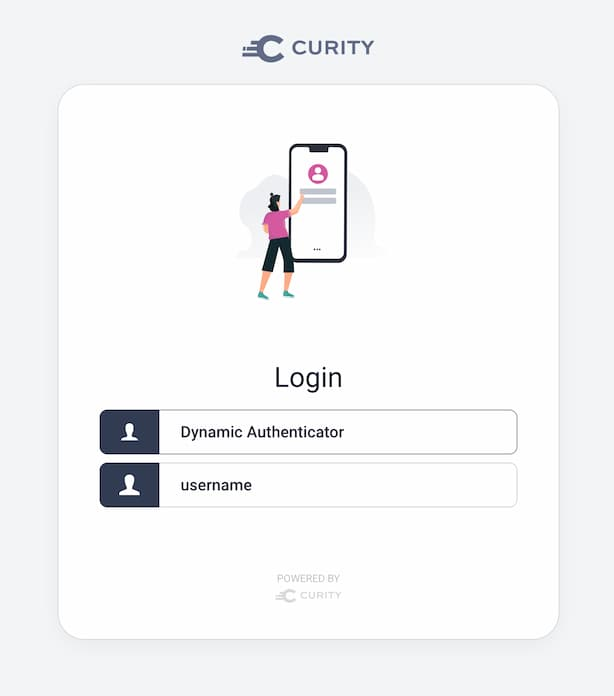
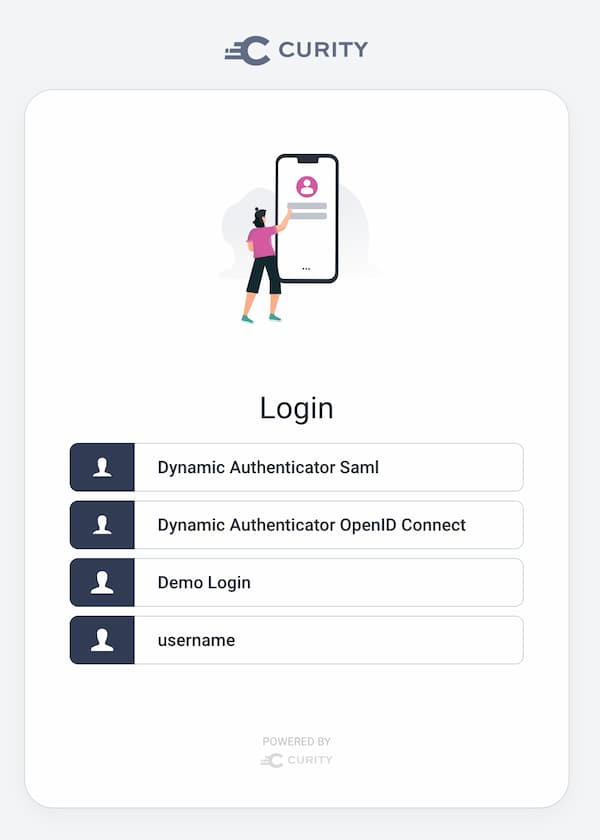
Fix documentation

diff --git a/README.md b/README.md
@@ -24,13 +24,11 @@ You will also need a license for the Curity Identity Server. If you don't have o
 
 Follow these steps in order to run the demo:
 
-- Copy `hooks/pre-commit` to `./git/hooks`. (This is an optional step, and you should do it if you plan to commit anything to this repo.
-  The hook will make sure that you don't accidentally commit the license.)
 - Copy the JSON license file to `/idsvr`.
 - Add the following domains to `/etc/hosts`:
 
 ```
-127.0.0.1 provider1.example.com provider2.example.com
+127.0.0.1 login.example.com provider1.example.com provider2.example.com provider3.example.com provider4.example.com
 ```
 
 - Run the `./deploy.sh` script. It will create the required certificates and containers.
@@ -38,24 +36,32 @@ Follow these steps in order to run the demo:
 ## Log In Using the Dynamic Authenticator
 
 You can log in to the main instance of the Curity Identity Server, by starting an OAuth flow for the client `dynamic-authenticator-demo`,
-e.g., navigate your browser to: `https://localhost:8443/oauth/v2/oauth-authorize?client_id=dynamic-authenticator-demo&response_type=code&scope=openid&redirect_uri=http://localhost`.
-(You can use [OAuth.tools](https://curity.io/resources/learn/test-using-oauth-tools/) to perform OAuth flows, but you will
-need to expose the main instance of the Curity Identity Server to the Internet. Here is a
-[tutorial](https://curity.io/resources/learn/expose-local-curity-ngrok/) that shows how to do it using a free tool called `ngrok`.)
+e.g., navigate your browser to:
 
-You will see an authentication method selection screen. Choose `Dynamic Authenticator`.
+```
+https://login.example.com:8443/oauth/v2/oauth-authorize?client_id=dynamic-authenticator-demo&response_type=code&scope=openid&redirect_uri=http://localhost
+```
+
+You will see an authentication method selection screen. Choose `Demo Login`.
 
 ![Authenticator selector](/docs/selector.jpg)
 
 The authenticator needs a way of determining which configuration to use for the authentication. It first collects a username,
-then calls the configuration API with the domain typed into the username field. Type `user1@provider1` or `user2@provider2` to be redirected
-to the corresponding provider.
+then calls the configuration API with the domain typed into the username field. Type `user1@provider1` or `user2@provider2` for federating to an OIDC provider,
+`user3@provider3` or `user4@provider4` for federating to an SAML IdP.
 
 ![Username authenticator](/docs/username.jpg)
 
 ![Provider 1 login screen](/docs/provider1.jpg)
 
-At provider1 you can log in with `user1/Password1`. At provider2 log in with `user2/Password1`.
+Use one of the following credentials to log in at the different providers:
+
+| Provider  | Username | Password    |
+|-----------|----------|-------------|
+| provider1 | `user1`  | `Password1` |
+| provider2 | `user2`  | `Password1` |
+| provider3 | `user3`  | `Password1` |
+| provider4 | `user4`  | `Password1` |
 
 After logging in with a provider you will see a Debug Attribute Action screen, where you can study the attributes collected from the respective provider.
 Note that even though `userX@providerX` was first used as the subject, the final subject is the one obtained from the provider.
@@ -74,7 +80,7 @@ A Curity Identity Server instance that serves as an external OIDC Provider.
 
 Endpoints:
 - OIDC metadata: https://provider1.example.com:8444/oauth/v2/oauth-anonymous/.well-known/oidc-configuration
-- admin UI: https://localhost:6750/admin
+- admin UI: https://provider1.example.com:6750/admin
 
 ### Provider 2
 
@@ -82,15 +88,32 @@ A Curity Identity Server instance that serves as an external OIDC Provider.
 
 Endpoints:
 - OIDC metadata: https://provider2.example.com:8445/oauth/v2/oauth-anonymous/.well-known/oidc-configuration
-- admin UI: https://localhost:6751/admin
+- admin UI: https://provider2.example.com:6751/admin
+
+### Provider 3
+
+A Curity Identity Server instance that serves as an external SAML IdP.
+
+Endpoints:
+- SAML IdP URL: https://provider3.example.com:8446/authn/authentication
+- admin UI: https://provider3.example.com:6752/admin
+
+### Provider 4
+
+A Curity Identity Server instance that serves as an external SAML IdP.
+
+Endpoints:
+- SAML IdP URL: https://provider4.example.com:8446/authn/authentication
+- admin UI: https://provider4.example.com:6753/admin
+
 
 ### Main instance
 
 A Curity Identity Server instance that uses the dynamic authenticator.
 
 Endpoints:
-- OIDC metadata: https://localhost:8443/oauth/v2/oauth-anonymous/.well-known/oidc-configuration
-- admin UI: https://localhost:6749/admin
+- OIDC metadata: https://login.example.com:8443/oauth/v2/oauth-anonymous/.well-known/oidc-configuration
+- admin UI: https://login.example.com:6749/admin
 
 ### The Configuration API
 
@@ -107,7 +130,7 @@ will restart all containers, and the Curity Identity Server instances will have 
 
 If you change the API code, run the script with the `--rebuild-api` option. This will refresh the API code in the container.
 
-If you need the certificates to be renewed, run the script with the `--regenerate-certs` option. 
+If you need the certificates to be renewed, run the script with the `--regenerate-certs` option.
 
 ## Teardown
 
@@ -120,4 +143,4 @@ Have a look at this [tutorial](https://curity.io/resources/learn/dynamic-authent
 If you want more information about the Curity Identity Server, Identity and Access Management, OAuth or OpenID Connect,
 then have a look at the [resources](https://curity.io/resources/) section of the [Curity](https://curity.io) website.
 
-If you have any questions or comments don't hesitate to open an issue in this repository or contact us. 
+If you have any questions or comments don't hesitate to open an issue in this repository or contact us.
